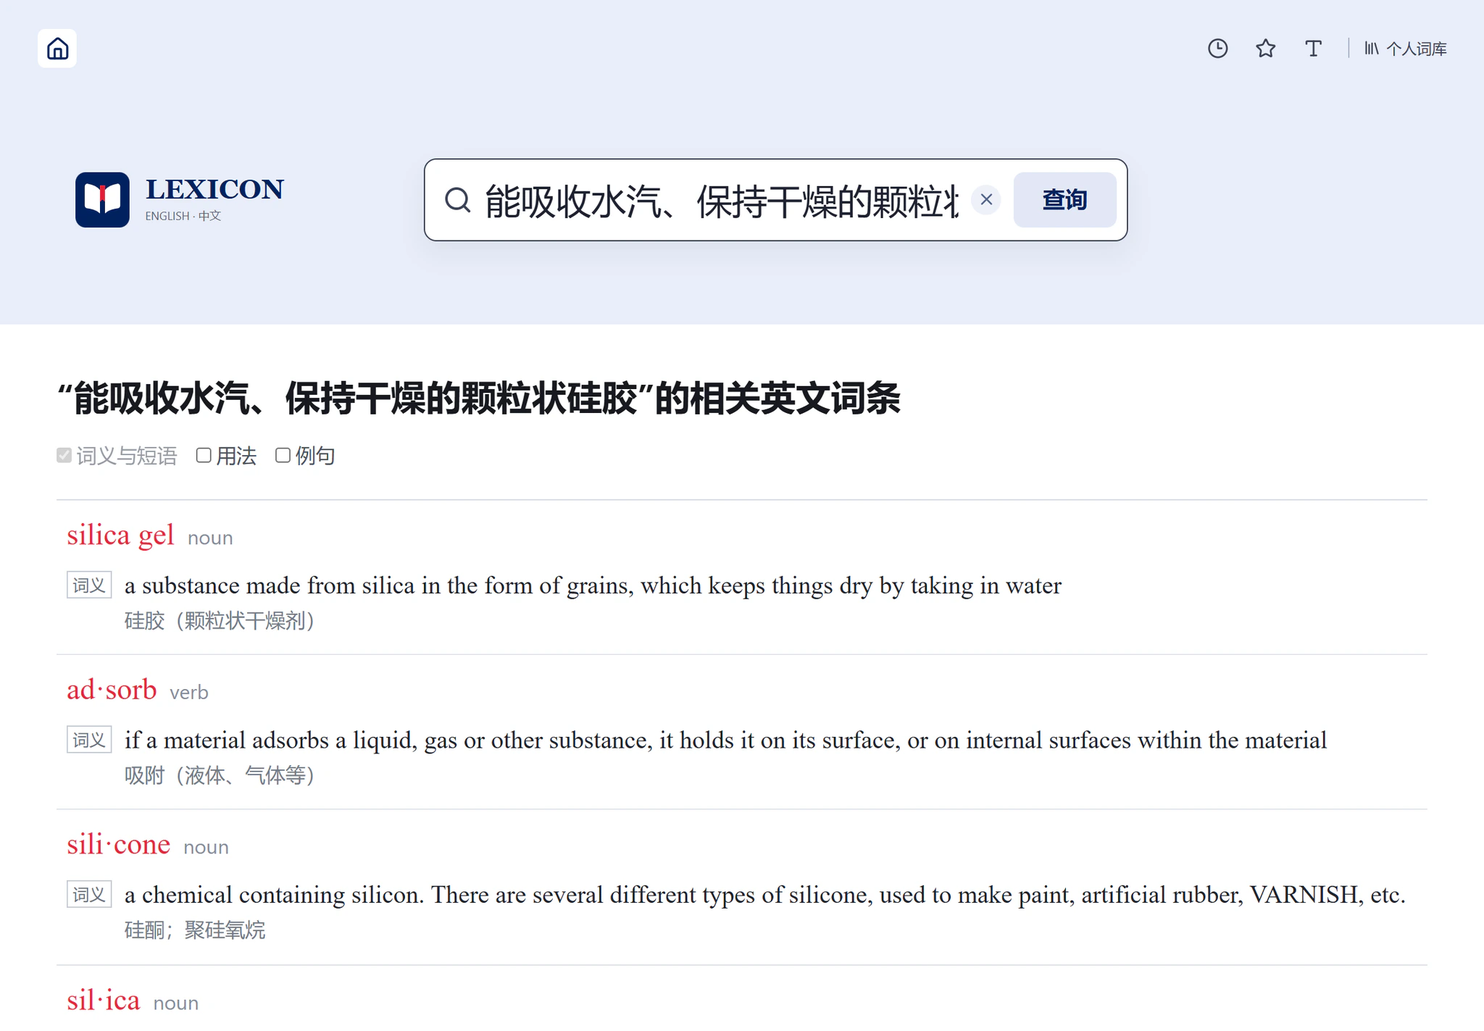
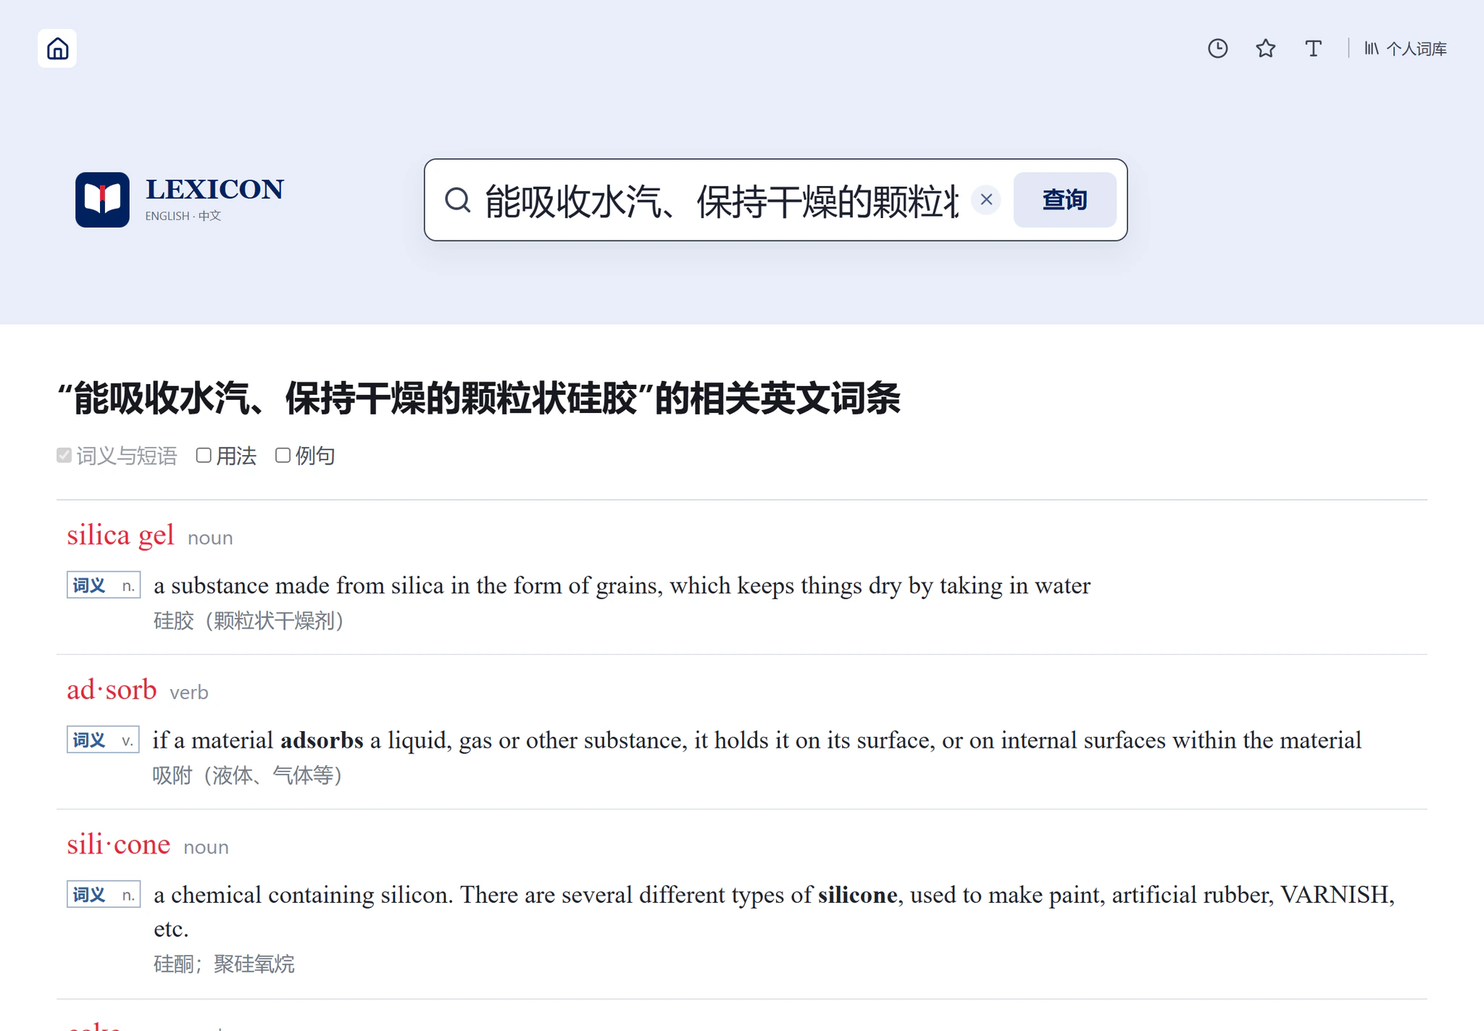
docs: refresh Lexicon search and deployment guides

Changed region(s): [[0.0312, 0.8349, 0.9375, 0.9895], [0.0312, 0.7112, 0.9062, 0.773], [0.0312, 0.5566, 0.75, 0.6184]]

diff --git a/ARCHITECTURE.md b/ARCHITECTURE.md
@@ -93,8 +93,9 @@ The service owns runtime storage work:
 - exact-segment and bounded FTS candidate retrieval, followed by deterministic grouped
   Chinese-result ranking;
 - validating the semantic sidecar against both database fingerprints and its model contract;
-- bounded resident int8 retrieval, query-vector caching, and deterministic lexical-semantic
-  fusion for explicitly submitted Chinese intent queries;
+- bounded resident int8 retrieval, four-request/64-flight embedding admission, bounded memory
+  and persistent query-vector caching, and deterministic lexical-semantic fusion for explicitly
+  submitted Chinese intent queries;
 - decompressing one independently stored entry and returning a stable envelope
   around the unmodified entry JSON;
 - indexing the pronunciation archive once and streaming individual assets;
@@ -125,8 +126,8 @@ loads int8 vectors into a bounded resident array and keeps evidence in read-only
 Replacing the primary or reverse-search database therefore also requires a compatible
 semantic rebuild.
 
-Only the query vector crosses the optional OpenAI-compatible provider boundary. Document
-vectors are built once and distributed as a release asset. The provider model name is a
+Only the query text needed to produce one vector crosses the optional OpenAI-compatible
+provider boundary. Document vectors are built once and distributed as a release asset. The provider model name is a
 deployment routing value; the project-owned model key identifies a compatible embedding
 space. Missing provider configuration disables semantic retrieval while preserving the
 complete lexical Chinese path. Provider failures during a request degrade to that lexical
@@ -181,6 +182,17 @@ fields. A genuinely new canonical semantic type adds one projection branch, one 
 anchor, and one contract fixture at this boundary; individual adapters, result pages,
 and navigation components remain unchanged. Preserved `raw` data is deliberately not
 indexed because it may contain transport fields or content the UI cannot display.
+
+The projection also resolves bounded headword surface forms for result evidence. Canonical
+`inflectedForms` are authoritative for irregular morphology. A build-only English lemmatizer
+supplements them only with surface forms observed in that entry's projected evidence, using
+the evidence's known part of speech. Only lexical entry variants and same-headword entry paths
+participate. Sense-level alternative wording, constructions, derivatives, differently named
+subentries, unobserved guesses, and evidence without a known part of speech remain outside the
+form relation. The reverse sidecar stores that relation once, and the API enriches an entire
+result window through one batch query. React receives explicit forms and contains no
+irregular-word table or morphology rules; build-only morphology code is absent from the web
+bundle and request path.
 
 The build script streams projected documents into the Go importer. The importer validates
 ordering and bounds, creates a deduplicated exact-segment B-tree beside the contentless FTS
@@ -279,10 +291,13 @@ coarser locations fall back to their owner and then their section.
 
 Chinese suggestions remain a debounced lexical request. An explicit submission containing
 at least two Han characters and no more than 200 Unicode characters opts into hybrid mode.
-The server retrieves the complete bounded lexical and dense windows, protects exact Chinese
-segments, combines independent ranks with reciprocal-rank fusion, and paginates the stable
-merged window. Query-vector and page caches are server-owned; browser scope changes and
-continuation requests keep the hybrid mode but never hold vectors in client state.
+The server retrieves the complete bounded lexical and dense windows, protects full-boundary
+Chinese evidence, and compares each entry's strongest semantic evidence before using
+same-band corroborating evidence. It never sums evidence counts, so several weaker matches
+cannot outrank one clearly stronger match. Query-vector and page caches are server-owned;
+browser scope changes and continuation requests keep the hybrid mode but never hold vectors
+in client state. An optional bounded SQLite cache stores only keyed query hashes and vectors
+across restarts; its namespace includes the complete embedding contract.
 
 Chinese results default to definitions, phrases, and forms. Users may include usage notes
 or examples through one canonical scope control. Scope is part of the request identity,
@@ -313,8 +328,9 @@ a uniform two-pixel reduction to its own baseline; supplementary resource cards 
 remain outside that adjustment. Result pages retain separate responsive baselines. Small and
 large levels apply a bounded pixel delta to reading text, cards, and result evidence without
 scaling layout geometry or search controls; long-form etymology uses a restrained independent
-delta. Content labels size their grid track from the rendered text, so a larger level cannot
-force a two-character scope label into a vertical stack. Dialog portals mirror the same
+delta. Result labels use a bounded phone track and wrap long part-of-speech qualifiers inside
+that track; larger layouts size the track from its content. A larger level therefore cannot
+push the label into its evidence text. Dialog portals mirror the same
 preference variables because their DOM nodes live outside the workspace root.
 
 Modal resources share one reference-counted viewport lock. Opening an illustration,
@@ -351,7 +367,11 @@ separate blocks so their destination role stays visually clear.
 Inline lookup has one environment-derived interaction mode. Viewports up to 1024 px,
 coarse pointers, and touch-capable devices resolve a tapped English token; wider
 fine-pointer desktops expose lookup only after a text selection. Both modes share the
-same token normalization, viewport clamping, and query action.
+same token normalization, viewport clamping, and query action. One workspace-level listener
+serves every explicitly marked reading surface, including entry content and portalled resource
+or etymology dialogs. The action is portalled back into the active surface, while buttons,
+links, form controls, and editable content remain outside lookup handling. New reading cards
+join this behavior through the same surface contract instead of mounting another listener.
 
 Part-of-speech switching passes through one projection boundary in
 `src/features/dictionary/entry-sections.ts`. Given an entry and active tab, it derives
@@ -469,7 +489,7 @@ GET /api/v1/media/example-audio?key=<url-encoded asset key>
 GET /api/v1/media/illustration?key=<url-encoded asset key>
 ```
 
-Chinese search items additionally include up to three bounded evidence records. Each
+Chinese search items additionally include up to eight bounded evidence records. Each
 record contains `scope`, `englishText`, `chineseText`, and a validated `location`. English
 search items retain their existing compact response shape. Chinese requests accept an
 optional `offset`; their default page contains 32 groups, a page contains at most 256, and
@@ -505,7 +525,7 @@ requests as distinct outcomes.
   tries the all-token expression per semantic tier and uses bounded OR retrieval only for a
   tier with no usable complete-token result. Scope plus ASCII and numeric constraints are
   applied before each SQL candidate limit; Go refinement respects normalized Chinese segment
-  boundaries, uses deterministic tie-breaks, and returns at most 512 entry groups with three
+  boundaries, uses deterministic tie-breaks, and returns at most 512 entry groups with eight
   evidence records per entry.
 - Chinese result pages begin at 32 groups and expand cumulatively to 64, 128, 256, then
   512. Each request transfers only the next page, and route changes cancel in-flight pages.
@@ -524,7 +544,9 @@ requests as distinct outcomes.
 - Semantic queries require at least two Han characters. Typing suggestions, English lookup,
   one-character Chinese lookup, invalid input, and oversized input never call the provider.
   Identical concurrent queries share one call; bounded vector and page LRUs avoid another
-  call for repeated queries, scope changes, and pagination.
+  call for repeated queries, scope changes, and pagination. An optional SQLite cache preserves
+  normalized vectors across restarts under HMAC keys, TTL, and a fixed LRU capacity without
+  storing query text.
 - The embedding request has a deployment-configured timeout, validates the model key and
   dimensions against sidecar metadata, caps response bytes, rejects malformed or non-finite
   vectors, and degrades to lexical retrieval on request-time failure.

diff --git a/STORAGE_FORMAT.md b/STORAGE_FORMAT.md
@@ -127,20 +127,31 @@ into an external dependency.
 
 ## Chinese Reverse-Search Sidecar
 
-Chinese lookup is a derived, project-owned SQLite sidecar with four structures:
+Chinese lookup is a derived, project-owned SQLite sidecar with five structures:
 
 ```text
 metadata       schema, normalizer, projection, source, count, and primary fingerprint
 documents      display evidence, grouping identity, weight, and canonical location
 exact_segments deduplicated normalized segments for complete-match lookup
+entry_headword_forms deduplicated entry-level surface forms used by evidence highlighting
 documents_fts  contentless FTS5 candidate index using detail=none
 ```
 
 The sidecar is generated from validated `CanonicalEntry` values through the shared
-`SearchDocument` projector. The current schema 3 / projection 1.2 build contains 188,851
-documents and 347,486 exact segments from 40,974 entries in a 69,894,144-byte file.
+`SearchDocument` projector. The current schema 5 / projection 1.4 build contains 188,851
+documents, 347,486 exact segments, and 16,857 headword forms from 40,974 entries in a
+72,228,864-byte file.
 Repeating the same projection and import produced the byte-identical SHA-256
[2 lines of base64/hex data omitted]
+
+Headword forms are projected once per canonical entry. Explicit canonical inflections
+carry irregular forms such as `think` to `thought`. A build-only lemmatizer supplements them
+with forms that actually occur in projected English evidence, such as `twist` to `twisted`,
+and only when the owning same-headword entry path supplies a compatible part of speech.
+Entry-level alternative spellings are accepted as lexical surfaces. Sense wording,
+constructions, derivatives, differently named nested entries, and unobserved guesses are
+excluded. The API fetches forms for one result window with a single bounded query, so evidence
+rendering never performs per-entry lookups or request-time morphology.
 
 Normalization applies Unicode NFKC, OpenCC traditional-to-simplified conversion, and
 collapsed punctuation and whitespace boundaries. One process-wide, race-safe OpenCC
@@ -172,7 +183,7 @@ a contiguous run covering about half the query, and lightweight polarity checkin
 misleading negated fallbacks. Mixed Chinese and ASCII or numeric queries retain every ASCII or
 numeric constraint. Scoring never joins text across punctuation or whitespace boundaries.
 Results are grouped with deterministic ties into a stable window of at most 512 entries and at
-most three evidence records per entry.
+most eight evidence records per entry.
 The HTTP endpoint returns 32 groups by default, accepts pages of at most 256, and exposes
 `nextOffset` for progressive 32, 64, 128, 256, and 512 cumulative result counts. Both the
 HTTP endpoint and the store reject queries longer than 200 characters.
@@ -222,12 +233,12 @@ documents      source-neutral evidence and canonical locations keyed by text id
 vector_blocks  contiguous symmetric-int8 vector blocks
 ```
 
-The current schema 1 build groups 188,851 documents into 178,382 unique text vectors with
-1,024 dimensions. It covers 2,139,356 Chinese characters and occupies 251,174,912 bytes.
+The current schema 2 / projection 1.1 build groups 188,851 documents into 178,382 unique text vectors with
+1,024 dimensions. It covers 2,139,356 Chinese characters and occupies 252,542,976 bytes.
 Its SHA-256 is
[2 lines of base64/hex data omitted]
 Metadata pins the primary runtime SHA-256, reverse-search SHA-256, corpus fingerprint,
-source projection 1.2, semantic projection 1.0, model key
+source projection 1.4, semantic projection 1.1, model key
 `qwen3-embedding-4b-1024-v1`, query template, provider options, and every vector-format
 parameter. The API rejects an incompatible combination before serving requests.
 
@@ -252,16 +263,25 @@ tokens. With the measured provider's 4x input multiplier, total recorded usage w
 instruction, or 119.4 weighted units at the same multiplier. A resumable checkpoint and
 pre-request reservations keep rebuilds and provider quota bounded.
 
-Loopback end-to-end probes measured 0.66-1.42 seconds for a first provider-backed query and
-roughly 20-75 ms for complete warm hybrid requests. The semantic-enabled Windows API process
+Loopback end-to-end probes measured 0.66-1.42 seconds for a first provider-backed query. The
+quality-v3 development run measured 125 ms at p50 and 163 ms at p95 for complete warm hybrid
+requests over the stable 512-entry fusion window. The semantic-enabled Windows API process
 used 385.5 MiB of working-set memory and 421.2 MiB of private memory after real queries;
 these figures also include the pronunciation ZIP index and normal Go/SQLite state.
 
-The dense rank is not returned directly. The API combines it with the complete bounded
-lexical rank through reciprocal-rank fusion and protects exact Chinese segments before
-stable pagination. Query-vector and page LRUs avoid repeat provider calls; provider errors
-return the lexical page. See [SEMANTIC_SEARCH.md](SEMANTIC_SEARCH.md) for the build command,
-runtime contract, model comparison, and configuration.
+The dense rank is not returned directly. The API protects full-boundary lexical evidence,
+then compares each entry's semantic evidence profile lexicographically: the strongest match
+wins, another match breaks ties only inside the 0.005 similarity band, and evidence counts are
+never summed. Query-vector and page LRUs avoid repeat provider calls; provider errors return
+the lexical page.
+
+An optional writable SQLite cache preserves normalized query vectors across process and
+container restarts. Its key is HMAC-SHA-256 over the query plus the complete embedding
+contract; query plaintext is never stored. Float32 vectors use 4,096 bytes each at 1,024
+dimensions. The default 10,000-row TTL/LRU bound occupies roughly 42-50 MiB including SQLite
+indexes and page overhead. Cache failures disable only persistence and never the lexical or
+semantic request path. See [SEMANTIC_SEARCH.md](SEMANTIC_SEARCH.md) for the build command,
+runtime contract, model comparison, cache settings, and configuration.
 
 ## Pronunciation Archive
 

diff --git a/DEPLOYMENT.md b/DEPLOYMENT.md
@@ -18,6 +18,7 @@ Go dictionary API
    +-- semantic-search SQLite, read-only
    +-- etymology sidecar SQLite, read-only
    +-- pronunciation ZIP, read-only
+   +-- bounded query-vector cache, writable
    +-- optional outbound query-embedding provider
 ```
 
@@ -25,6 +26,9 @@ The browser calls a same-origin `/api/v1` path. The repository's Compose file us
 keep application containers on a private network, obtain TLS certificates when a domain
 is configured, and expose only HTTP and HTTPS. This is a public reference topology; an
 existing reverse proxy can provide the same routing without running the included gateway.
+The bundled Caddy gateway is not part of installations already routed through Nginx Proxy
+Manager; those deployments attach the web and API services to their existing private Docker
+network and keep that site-specific Compose file outside this repository.
 History, favorites, and notes remain in the browser's IndexedDB; the server stores no
 personal records.
 
@@ -35,8 +39,8 @@ The measured production assets are:
 | Asset | Stored size | Runtime treatment |
 | --- | ---: | --- |
 | Runtime SQLite schema v3 | 53,952,512 bytes | opened read-only |
-| Reverse-search sidecar schema v3 | 69,894,144 bytes | opened read-only; scoped exact lookup, bounded FTS, OpenCC normalization, and grouped refinement |
-| Semantic-search sidecar schema v1 | 251,174,912 bytes | 178,382 int8 vectors loaded once; evidence read from SQLite on demand |
+| Reverse-search sidecar schema v5 | 72,228,864 bytes | opened read-only; scoped exact lookup, bounded FTS, grouped refinement, and batched headword forms |
+| Semantic-search sidecar schema v2 | 252,542,976 bytes | 178,382 int8 vectors loaded once; evidence read from SQLite on demand |
 | Etymology sidecar schema v3 | 45,400,064 bytes | opened read-only; articles decoded on demand |
 | Headword pronunciation ZIP | 1,135,490,706 bytes | indexed once, streamed without extraction |
 | Usable headword MP3 assets | 128,010 files / 1,143,628,003 bytes | not extracted |
@@ -140,14 +144,28 @@ DICTIONARY_SEMANTIC_BASE_URL=https://provider.example/v1
 DICTIONARY_SEMANTIC_API_KEY=replace-with-your-key
 DICTIONARY_SEMANTIC_MODEL=Qwen/Qwen3-Embedding-4B
 DICTIONARY_SEMANTIC_MODEL_KEY=qwen3-embedding-4b-1024-v1
-DICTIONARY_SEMANTIC_TIMEOUT=5s
+DICTIONARY_SEMANTIC_TIMEOUT=3s
 DICTIONARY_SEMANTIC_CACHE=128
+DICTIONARY_SEMANTIC_PERSISTENT_CACHE=true
+DICTIONARY_SEMANTIC_PERSISTENT_CACHE_KEY=replace-with-at-least-32-private-bytes
+DICTIONARY_SEMANTIC_PERSISTENT_CACHE_MAX_ENTRIES=10000
+DICTIONARY_SEMANTIC_PERSISTENT_CACHE_TTL=720h
 ```
 
 The base URL and credential are never included in the image, runtime manifest, or Git
 history. Leaving either empty disables only semantic retrieval. A different embedding space
 requires rebuilding `semantic-search.db` and assigning a new model key; see
 [SEMANTIC_SEARCH.md](SEMANTIC_SEARCH.md).
+
+The three-second budget starts when the API dispatches the provider request. A timeout,
+rate limit, or malformed response returns the complete local lexical page. The reference
+Compose keeps the query-vector cache in its own writable volume while every content asset
+remains read-only. The cache stores HMAC keys instead of query text, survives container
+restarts, expires entries after 30 days, and evicts least-recently-used rows above 10,000.
+That default bound is approximately 42-50 MiB. Generate the private cache key with
+`openssl rand -hex 32`; set `DICTIONARY_SEMANTIC_PERSISTENT_CACHE=false` to opt out. A
+one-shot init service gives the non-root API user ownership of the cache volume before the
+API starts.
 
 ## Start
 
@@ -214,9 +232,18 @@ services:
       DICTIONARY_SEMANTIC_API_KEY: ${DICTIONARY_SEMANTIC_API_KEY:-}
       DICTIONARY_SEMANTIC_MODEL: ${DICTIONARY_SEMANTIC_MODEL:-Qwen/Qwen3-Embedding-4B}
       DICTIONARY_SEMANTIC_MODEL_KEY: ${DICTIONARY_SEMANTIC_MODEL_KEY:-qwen3-embedding-4b-1024-v1}
+      DICTIONARY_SEMANTIC_TIMEOUT: ${DICTIONARY_SEMANTIC_TIMEOUT:-3s}
+      DICTIONARY_SEMANTIC_PERSISTENT_CACHE: ${DICTIONARY_SEMANTIC_PERSISTENT_CACHE:-true}
+      DICTIONARY_SEMANTIC_PERSISTENT_CACHE_PATH: /var/cache/lexicon/semantic-query-vectors.db
+      DICTIONARY_SEMANTIC_PERSISTENT_CACHE_KEY: ${DICTIONARY_SEMANTIC_PERSISTENT_CACHE_KEY:-}
     volumes:
       - ./data/semantic-search.db:/var/lib/lexicon/semantic-search.db:ro
+      - semantic-query-cache:/var/cache/lexicon
 ```
+
+For a private Compose, initialize the cache volume for container UID/GID `65532:65532`
+before starting the non-root API, or reproduce the bundled `semantic-cache-init` service.
+Without a writable cache directory, semantic search still works but persistence is disabled.
 
 The proxy must support streaming responses and preserve query strings, response content
 types, `Cache-Control`, and `Service-Worker-Allowed`. Do not enable proxy caching for

diff --git a/README.md b/README.md
@@ -85,8 +85,8 @@ Indexed lookup, bounded candidate pools, and independently compressed entries le
 | Dataset<br>数据集 | Coverage<br>规模 | Runtime asset<br>运行资源 |
 | --- | ---: | ---: |
 | Core bilingual dictionary<br>双语主词典 | 40,974 entries<br>40,974 个词条 | 51.5 MiB |
-| Chinese reverse search<br>中文反查 | 188,851 documents · 347,486 exact segments<br>188,851 条文档 · 347,486 个精确片段 | 66.7 MiB |
-| Semantic intent search<br>语义意图检索 | 178,382 vectors · 1,024 dimensions<br>178,382 个向量 · 1,024 维 | 239.5 MiB |
+| Chinese reverse search<br>中文反查 | 188,851 documents · 347,486 exact segments · 16,857 headword forms<br>188,851 条文档 · 347,486 个精确片段 · 16,857 个词形 | 68.9 MiB |
+| Semantic intent search<br>语义意图检索 | 178,382 vectors · 1,024 dimensions<br>178,382 个向量 · 1,024 维 | 240.8 MiB |
 | Etymology enhancement<br>词源扩展 | 46,773 terms · 51,716 articles<br>46,773 个词语 · 51,716 篇文章 | 43.3 MiB |
 | Headword pronunciation<br>词头发音 | 128,010 MP3 assets<br>128,010 个 MP3 | 1.06 GiB |
 
@@ -107,9 +107,9 @@ npm ci
 npm run data:download
 ```
 
-The download is about 1.45 GiB. It retrieves the versioned [runtime-data-v1 Release](https://github.com/ShallowDream724/lexicon/releases/tag/runtime-data-v1), verifies every file against `runtime-assets.json`, and creates the shared runtime layout:
+The download is about 1.45 GiB. It retrieves the versioned [runtime-data-v1 Release](https://github.com/ShallowDream724/lexicon/releases/tag/runtime-data-v1), verifies every file against `runtime-assets.json`, and creates the shared runtime layout of four databases and one packed audio archive:
 
-完整下载量约为 1.45 GiB。命令会获取带版本的 [runtime-data-v1 Release](https://github.com/ShallowDream724/lexicon/releases/tag/runtime-data-v1)，依据 `runtime-assets.json` 校验每个文件，并创建统一的运行目录：
+完整下载量约为 1.45 GiB。命令会获取带版本的 [runtime-data-v1 Release](https://github.com/ShallowDream724/lexicon/releases/tag/runtime-data-v1)，依据 `runtime-assets.json` 校验每个文件，并创建由四个数据库和一个压缩音频包组成的运行目录：
 
 ```text
 data/
@@ -140,9 +140,9 @@ Open `http://localhost:3000`. The web application calls `http://localhost:8787/a
 
 打开 `http://localhost:3000`。Web 应用默认调用 `http://localhost:8787/api/v1`。可通过 `LEXICON_DATA_BASE_URL` 选择其他资源镜像，通过 `LEXICON_DATA_DIR` 选择其他本地数据目录。
 
-Semantic intent search is optional at runtime. Configure an OpenAI-compatible embeddings endpoint and a model compatible with the released sidecar to enable it; without those settings, Chinese lookup keeps its complete local lexical path. The released contract, one-command rebuild, provider options, quota guard, and measured quality are documented in [SEMANTIC_SEARCH.md](SEMANTIC_SEARCH.md).
+Semantic intent search is optional at runtime. Configure an OpenAI-compatible embeddings endpoint and a model compatible with the released sidecar to enable it; without those settings, Chinese lookup keeps its complete local lexical path. Typing suggestions never call the provider. Explicit multi-character Chinese searches use a three-second provider timeout and fall back to local results without interrupting the page. Deployments can retain query vectors across restarts in a bounded cache that stores keyed hashes rather than query text. The released contract, one-command rebuild, provider options, quota guard, cache settings, and measured quality are documented in [SEMANTIC_SEARCH.md](SEMANTIC_SEARCH.md).
 
-语义意图检索在运行时可选。配置与发布侧库兼容的 OpenAI 格式 Embeddings 接口和模型即可启用；未配置时，中文反查仍会完整使用本地字面检索。发布契约、一键重建、接口选项、额度保护与实测质量见 [SEMANTIC_SEARCH.md](SEMANTIC_SEARCH.md)。
+语义意图检索在运行时可选。配置与发布侧库兼容的 OpenAI 格式 Embeddings 接口和模型即可启用；未配置时，中文反查仍会完整使用本地字面检索。输入过程中的联想不会调用上游；明确提交多字中文后，provider 请求采用 3 秒超时，异常时页面会无感回到本地结果。部署端还可用有界缓存跨重启复用查询向量，磁盘只保存带密钥的摘要，不保存查询原文。发布契约、一键重建、接口选项、额度保护、缓存设置与实测质量见 [SEMANTIC_SEARCH.md](SEMANTIC_SEARCH.md)。
 
 For self-hosted Docker deployment, configure the reference environment and start the bundled web, API, and reverse-proxy services. HTTPS, proxy, asset, update, and rollback notes are in [DEPLOYMENT.md](DEPLOYMENT.md).
 
